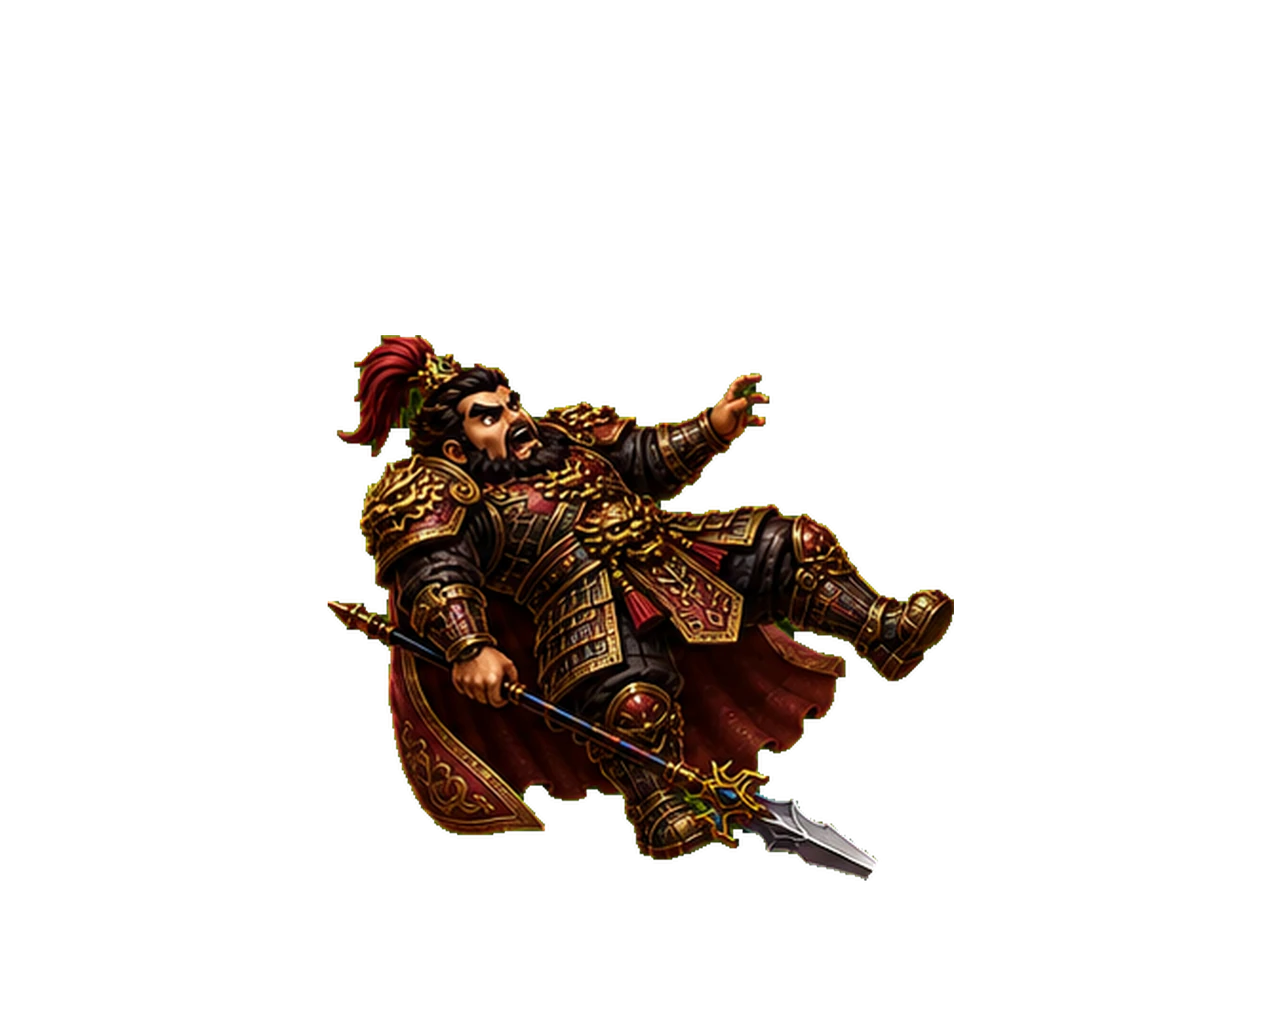
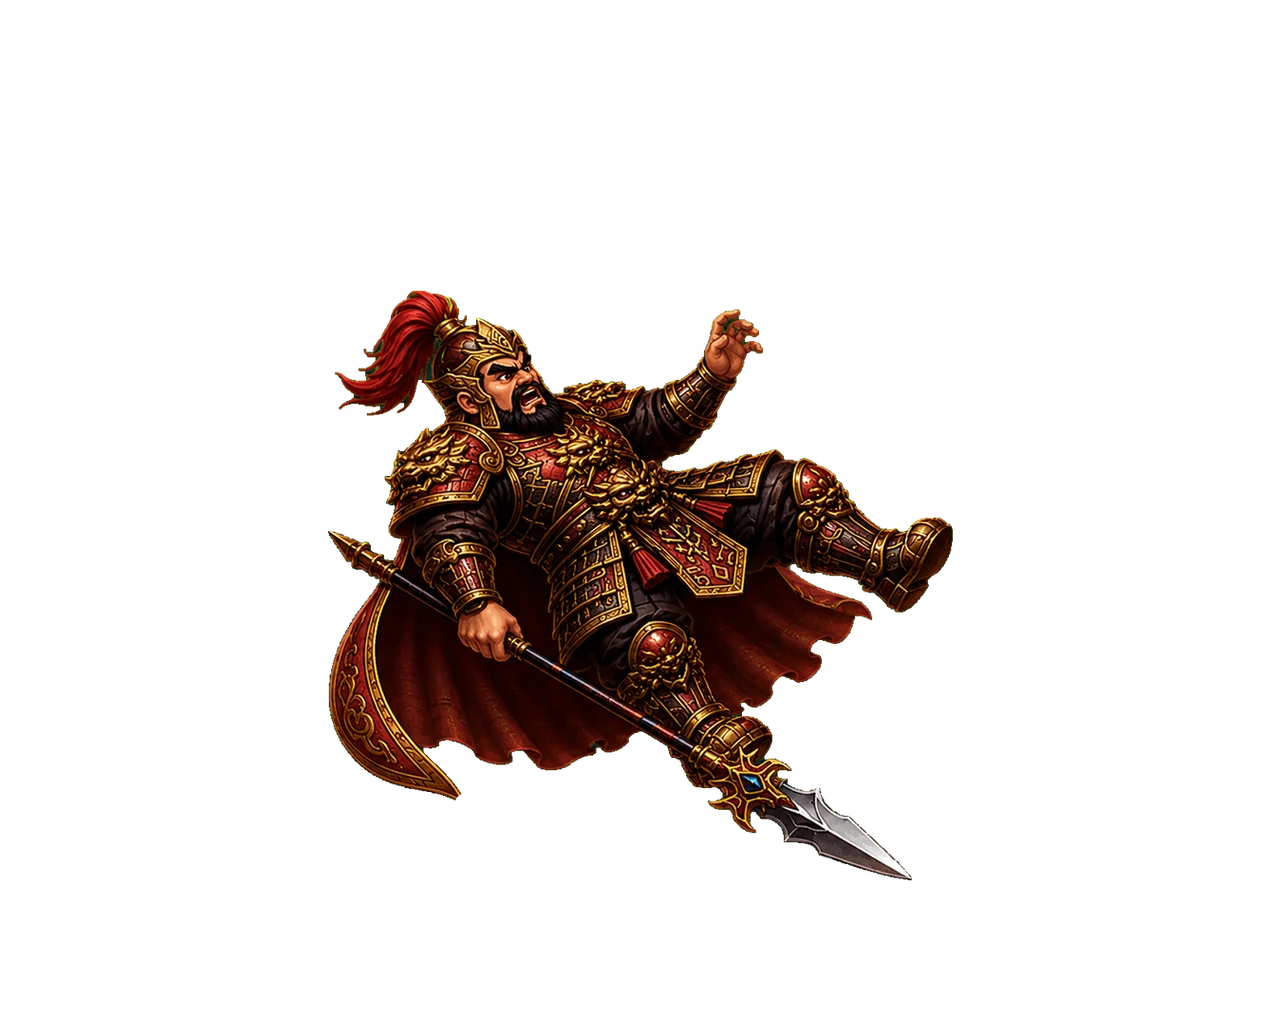
fix(일기토): 안량 강피격 투구와 포즈 처리 보정

Changed region(s): [[0.25, 0.2812, 0.75, 0.875]]

diff --git a/tools/patch_general.py b/tools/patch_general.py
@@ -132,7 +132,9 @@ def main():
     cores = [c for c in (core_size(Image.open(f).convert('RGBA'))
                          for f in glob.glob(os.path.join(out_dir, '*.webp'))) if c]
     spread = (max(cores) - min(cores)) / statistics.mean(cores) * 100
-    print(f'[검증] 몸통 편차 {spread:.0f}%  ' + ('○' if spread <= 14 else '✗ 14% 초과'))
+    # Windows cp949 콘솔에서는 ○/✗를 출력하지 못해, 파일 교체 뒤 검증 단계에서
+    # 도구가 예외로 끝날 수 있다. ASCII 상태 표시는 어느 콘솔에서나 안전하다.
+    print(f'[검증] 몸통 편차 {spread:.0f}%  ' + ('OK' if spread <= 14 else 'FAIL: 14% 초과'))
     print(f'\n→ duel_v2.html 에서 {args.gid} 확인')
 
 
